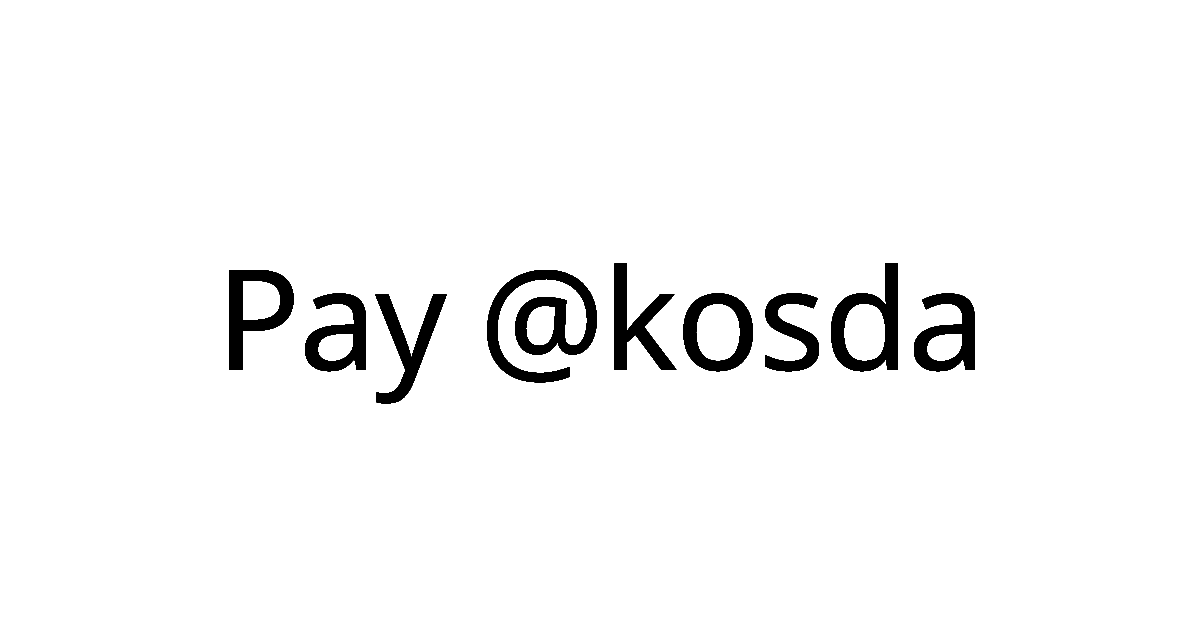
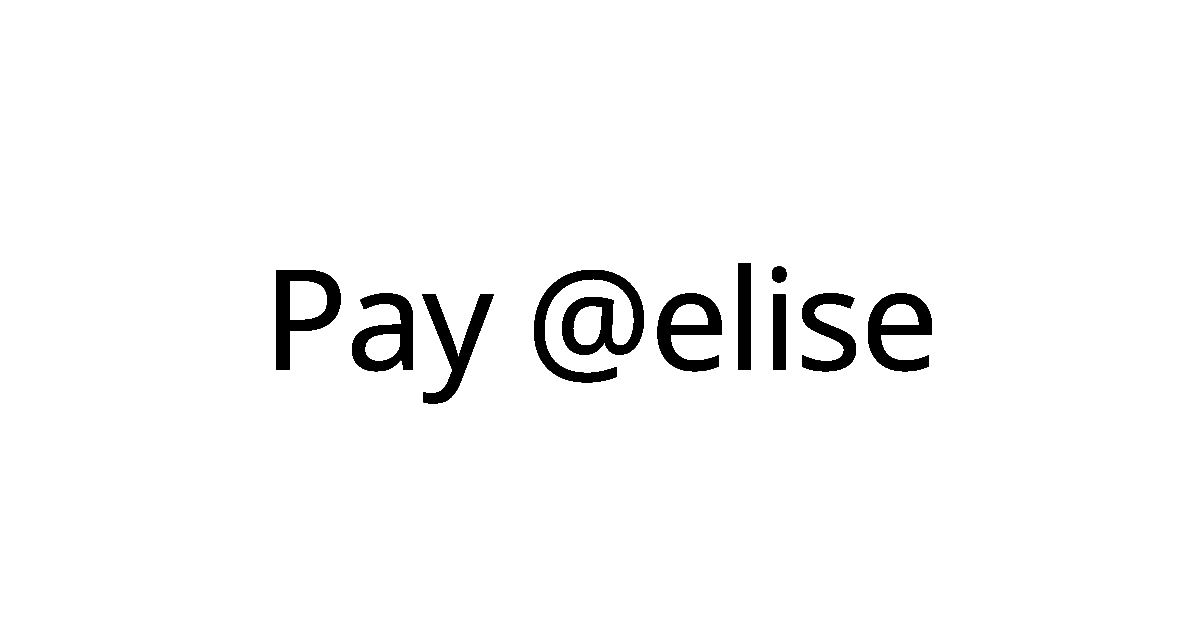
try

Changed region(s): [[0.185, 0.4222, 0.8325, 0.6635]]

diff --git a/src/app/[username]/page.tsx b/src/app/[username]/page.tsx
@@ -73,7 +73,13 @@ async function fetchUserPublic(handle: string) {
   }
 }
 
-/* ---------------- dynamic SEO ---------------- */
+function absoluteUrl(path: string) {
+  const base =
+    process.env.NEXT_PUBLIC_SITE_URL?.replace(/\/+$/, "") ||
+    "https://example.com"; // <-- set this env to your real HTTPS origin
+  return `${base}${path.startsWith("/") ? "" : "/"}${path}`;
+}
+
 export async function generateMetadata(props: PageProps): Promise<Metadata> {
   const { username } = await resolveParams(props.params);
   const sp = await resolveSearchParams(props.searchParams);
@@ -82,26 +88,37 @@ export async function generateMetadata(props: PageProps): Promise<Metadata> {
   const apiUser = await fetchUserPublic(handle);
 
   const name = apiUser?.name || displayNameFromHandle(handle);
-  const amount = parseAmount(sp);
-  const prettyAmount = amount
-    ? new Intl.NumberFormat("en-UG", { maximumFractionDigits: 0 }).format(amount)
-    : undefined;
 
-  const title = amount ? `Pay ${name} • UGX ${prettyAmount}` : `Pay ${name} (@${handle})`;
-  const description = amount
+  // read ?a= and keep digits only so 125,000 works
+  const raw = Array.isArray(sp.a) ? sp.a[0] : sp.a;
+  const digits = raw ? String(raw).replace(/[^\d]/g, "") : "";
+  const amount = digits ? Number(digits) : undefined;
+  const prettyAmount =
+    amount && Number.isFinite(amount) && amount > 0
+      ? new Intl.NumberFormat("en-UG", { maximumFractionDigits: 0 }).format(amount)
+      : undefined;
+
+  const title = prettyAmount
+    ? `Pay ${name} • UGX ${prettyAmount}`
+    : `Pay ${name} (@${handle})`;
+  const description = prettyAmount
     ? `Send UGX ${prettyAmount} securely to ${name} on Guto Paylink.`
     : `Send secure payments to ${name} on Guto Paylink.`;
 
   const canonicalPath = `/@${handle}`;
-  const imagePath = `/${encodeURIComponent("@" + handle)}/opengraph-image${
-    amount ? `?a=${amount}` : ""
+  const imagePath = `/${encodeURIComponent("@"+handle)}/opengraph-image${
+    prettyAmount ? `?a=${digits}` : ""
   }`;
+  const imageAbs = absoluteUrl(imagePath);
+  const canonicalAbs = absoluteUrl(canonicalPath);
 
   return {
     title,
     description,
     alternates: { canonical: canonicalPath },
     robots: { index: true, follow: true },
+
+    // Open Graph (FB/Instagram/LinkedIn/WhatsApp/Slack/Discord/etc.)
     openGraph: {
       title,
       description,
@@ -109,16 +126,25 @@ export async function generateMetadata(props: PageProps): Promise<Metadata> {
       siteName: "Guto",
       type: "profile",
       locale: "en_US",
-      images: [{ url: imagePath, width: 1200, height: 630, alt: title }],
+      images: [
+        {
+          url: imageAbs,          // absolute URL
+          secureUrl: imageAbs,    // explicitly HTTPS
+          type: "image/png",
+          width: 1200,
+          height: 630,
+          alt: title,
+        },
+      ],
     },
+
+    // Twitter/X (uses same dynamic image)
     twitter: {
       card: "summary_large_image",
       title,
       description,
-      images: [imagePath], // reuse same dynamic image for all socials
+      images: [imageAbs], // absolute
     },
-    // optional polish
-    formatDetection: { telephone: false, email: false, address: false },
   };
 }
 

diff --git a/src/app/layout.tsx b/src/app/layout.tsx
@@ -1,5 +1,5 @@
 // src/app/layout.tsx
-import type { Metadata } from "next";
+import type { Metadata, Viewport } from "next";
 import { Geist_Mono, Inter_Tight } from "next/font/google";
 import { Toaster } from "sonner";
 
@@ -19,32 +19,47 @@ const interTight = Inter_Tight({
 });
 
 export const metadata: Metadata = {
-  // 👇 makes relative URLs in page metadata absolute
+  // Ensures relative URLs in page metadata become absolute
   metadataBase: new URL(process.env.NEXT_PUBLIC_SITE_URL ?? "http://localhost:3000"),
 
-  // 👇 pages can set `title`; this template wraps it
+  // Page-level titles slot into this template
   title: {
     default: "Guto — Mobile Money Wallet",
     template: "%s | Guto",
   },
   description: "Guto",
 
-  // sensible defaults (page-level generateMetadata can override)
+  // Sensible global fallbacks; per-page generateMetadata will override
   openGraph: {
     siteName: "Guto",
     type: "website",
     locale: "en_US",
-    images: [{ url: "/opengraph-image.png", width: 1200, height: 630, alt: "Guto" }],
+    images: [
+      { url: "/opengraph-image.png", width: 1200, height: 630, alt: "Guto" },
+    ],
   },
   twitter: {
     card: "summary_large_image",
     images: ["/twitter-image.png"],
   },
+  robots: { index: true, follow: true },
   icons: {
     icon: "/favicon.ico",
     apple: "/apple-touch-icon.png",
   },
-  robots: { index: true, follow: true },
+ keywords: ["guto", "mobile money", "payments", "paylink"],
+  // verification: { google: "..." },
+};
+
+// Helpful for mobile viewport + system theme colors
+export const viewport: Viewport = {
+  themeColor: [
+    { media: "(prefers-color-scheme: light)", color: "#ffffff" },
+    { media: "(prefers-color-scheme: dark)", color: "#0b0f14" },
+  ],
+  width: "device-width",
+  initialScale: 1,
+  colorScheme: "light dark",
 };
 
 export default function RootLayout({ children }: { children: React.ReactNode }) {
